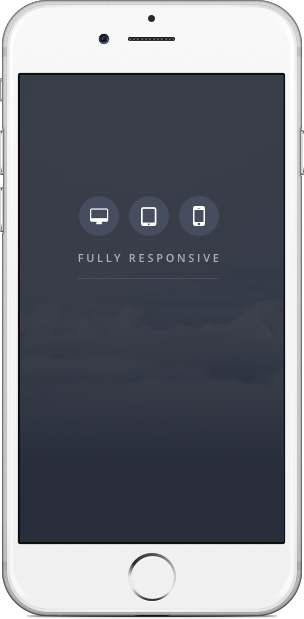
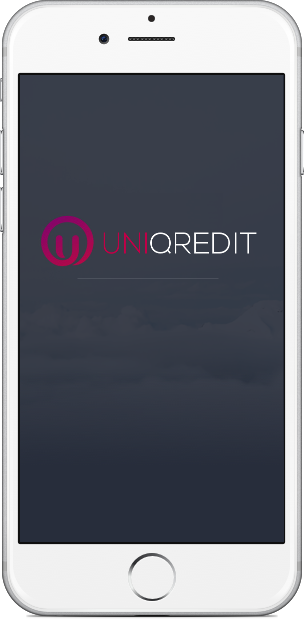
text and images

Changed region(s): [[0.1184, 0.3069, 0.8289, 0.4297]]

diff --git a/index.html b/index.html
@@ -87,7 +87,7 @@
                     </div>
                     <div class="intro-content">
                         <h5>Innovative </h5>
-                        <p>Designed with modern trends and techniques in mind, UniQredit incorporates the latest advances of Bitcoin, combines and merges them with other emerging ideas to make complex financial transactions possible.</p>
+                        <p>UniQredit incorporates the latest advances of Bitcoin, combines and merges them with other emerging ideas to make complex financial transactions possible.</p>
                     </div>
                 </div>
                 <div class="col-md-4 intro-feature">
@@ -107,16 +107,16 @@
             <div class="row">
                 <div class="col-md-5 col-md-offset-7">
                     <div class="feature-list">
-                        <h3>Sedna will drive your product forward</h3>
-                        <p>Present your product, start up, or portfolio in a beautifully modern way. Turn your visitors in to clients.</p>
+                        <h3>The Future of FinTech</h3>
+                        <p>UniQredit represents the future of blockchain based finance, allowing individual, companies and charities alike to interact in a clean and snae enviroment.</p>
                         <ul class="features-stack">
                             <li class="feature-item">
                                 <div class="feature-icon">
                                     <span data-icon="&#xe03e;" class="icon"></span>
                                 </div>
                                 <div class="feature-content">
-                                    <h5>Universal & Responsive</h5>
-                                    <p>Sedna is universal and will look smashing on any device.</p>
+                                    <h5>Universal Access</h5>
+                                    <p>UniQredit knows no borders, you can access it from anywhere in the world using even the most basic smart phone and a internet connection.</p>
                                 </div>
                             </li>
                             <li class="feature-item">
@@ -124,8 +124,8 @@
                                     <span data-icon="&#xe040;" class="icon"></span>
                                 </div>
                                 <div class="feature-content">
-                                    <h5>User Centric Design</h5>
-                                    <p>Sedna takes advantage of common design patterns, allowing for a seamless experience for users of all levels.</p>
+                                    <h5>Elegant and User Centered</h5>
+                                    <p>UniQredit is designed with the user in mind and simplifies all operations ensuring users of all ages can easily perform any task they desire.</p>
                                 </div>
                             </li>
                             <li class="feature-item">
@@ -133,8 +133,8 @@
                                     <span data-icon="&#xe03c;" class="icon"></span>
                                 </div>
                                 <div class="feature-content">
-                                    <h5>Clean reusable code</h5>
-                                    <p>Download and re-use the Sedna open source code for any other project you like.</p>
+                                    <h5>TechStrap</h5>
+                                    <p>The Platform has a custom bootstrap package under development which will allow service providers to easily set up their services , ranging from Lending to Micro-Banking in minutes.</p>
                                 </div>
                             </li>
                         </ul>
